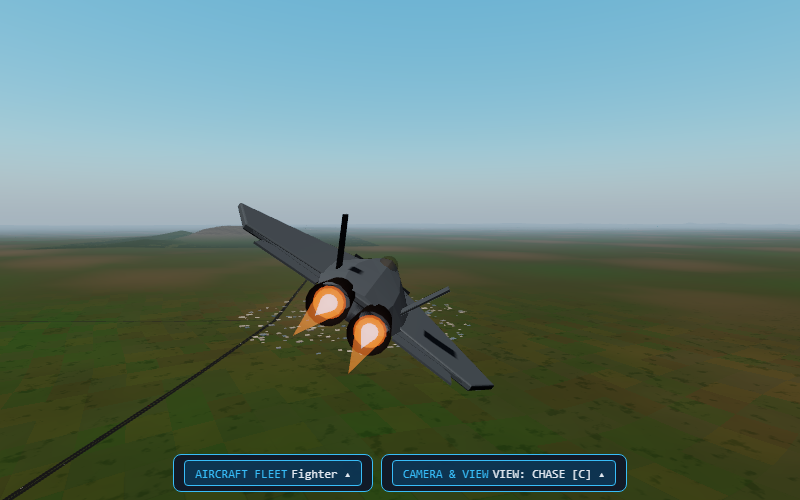
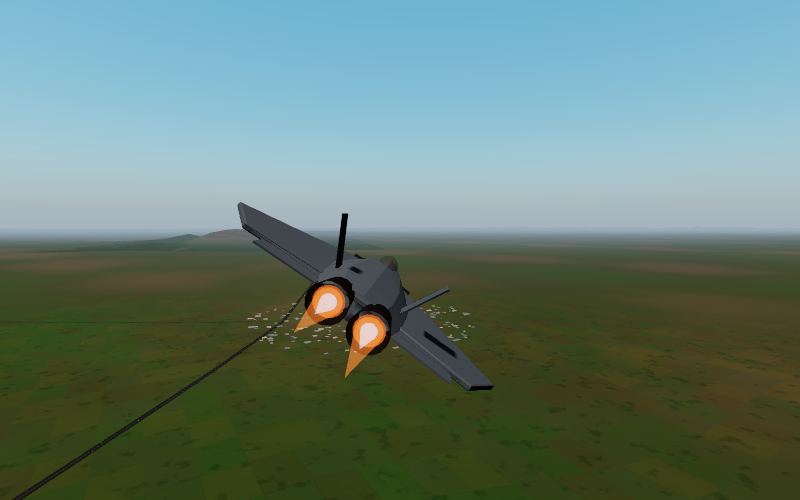
Crash always reads 0 ft; fighter's flight computer holds its speed limit
A break-up in the air left the altitude at the height where it began while the
wreck showed on the ground. Under power the fighter now stays inside its limit.

Claude-Session: https://claude.ai/code/session_01GM8VCp94C9FknBwcRwn1Gw

diff --git a/src/physics/flight.js b/src/physics/flight.js
@@ -166,7 +166,11 @@ export function stepFixedWingAir(state, input, p, type, dt) {
   if (liftDir.lengthSq() > 1e-6) liftDir.normalize(); else liftDir.copy(up);
   const drag = parasiteDrag(v, p, air, atm, stalled) + Math.abs(lift) * dragShare(cl, p);
   const side = clamp(-beta * v * v * 0.002, -2 * G, 2 * G);
-  accel.copy(nose).multiplyScalar(thrustAccel(state.power / 100, state.isAfterburner, v, air, atm))
+  // The fighter's flight computer eases the engines back as it nears its speed limit, so power alone cannot overspeed it.
+  // A steep dive still can.
+  const iasNow = v * Math.sqrt(atm.sigma) * 1.94384;
+  const speedGuard = air.fbw ? clamp((air.vne - iasNow) / 50, 0, 1) * clamp((air.mmo - v / atm.soundMs) / 0.1, 0, 1) : 1;
+  accel.copy(nose).multiplyScalar(thrustAccel(state.power / 100, state.isAfterburner, v, air, atm) * speedGuard)
     .addScaledVector(liftDir, lift)
     .addScaledVector(vHat, -drag)
     .addScaledVector(right, side);

diff --git a/web/src/physics/flight.js b/web/src/physics/flight.js
@@ -166,7 +166,11 @@ export function stepFixedWingAir(state, input, p, type, dt) {
   if (liftDir.lengthSq() > 1e-6) liftDir.normalize(); else liftDir.copy(up);
   const drag = parasiteDrag(v, p, air, atm, stalled) + Math.abs(lift) * dragShare(cl, p);
   const side = clamp(-beta * v * v * 0.002, -2 * G, 2 * G);
-  accel.copy(nose).multiplyScalar(thrustAccel(state.power / 100, state.isAfterburner, v, air, atm))
+  // The fighter's flight computer eases the engines back as it nears its speed limit, so power alone cannot overspeed it.
+  // A steep dive still can.
+  const iasNow = v * Math.sqrt(atm.sigma) * 1.94384;
+  const speedGuard = air.fbw ? clamp((air.vne - iasNow) / 50, 0, 1) * clamp((air.mmo - v / atm.soundMs) / 0.1, 0, 1) : 1;
+  accel.copy(nose).multiplyScalar(thrustAccel(state.power / 100, state.isAfterburner, v, air, atm) * speedGuard)
     .addScaledVector(liftDir, lift)
     .addScaledVector(vHat, -drag)
     .addScaledVector(right, side);

diff --git a/index.html b/index.html
@@ -1112,6 +1112,13 @@
       aircraft.mesh.traverse((o) => { if (paint === 0x8896a8 && o.isMesh && o.material && o.material.color) paint = o.material.color.getHex(); });
       crashFx.start(state.pos, velBefore, terrain.groundY(state.pos.x, state.pos.z), paint);
       aircraft.mesh.visible = false;
+      // The wreck is on the ground, so the aircraft's numbers are too, wherever the crash began (0 ft, 0 kt, level)
+      state.pos.y = terrain.groundY(state.pos.x, state.pos.z) + profile.groundHeight;
+      state.altZeroFt = 0;
+      state.rot.x = 0;
+      state.rot.z = 0;
+      state.onGround = true;
+      state.prevOnGround = true;
       state.vel.set(0, 0, 0);
       state.throttle = 0;
       state.power = 0;

diff --git a/web/index.html b/web/index.html
@@ -1112,6 +1112,13 @@
       aircraft.mesh.traverse((o) => { if (paint === 0x8896a8 && o.isMesh && o.material && o.material.color) paint = o.material.color.getHex(); });
       crashFx.start(state.pos, velBefore, terrain.groundY(state.pos.x, state.pos.z), paint);
       aircraft.mesh.visible = false;
+      // The wreck is on the ground, so the aircraft's numbers are too, wherever the crash began (0 ft, 0 kt, level)
+      state.pos.y = terrain.groundY(state.pos.x, state.pos.z) + profile.groundHeight;
+      state.altZeroFt = 0;
+      state.rot.x = 0;
+      state.rot.z = 0;
+      state.onGround = true;
+      state.prevOnGround = true;
       state.vel.set(0, 0, 0);
       state.throttle = 0;
       state.power = 0;

diff --git a/RECORD.md b/RECORD.md
@@ -18,6 +18,7 @@ Kept up to date with each round of work. Newest round first in "Done".
 - Vapor cone near Mach 1, white wing-tip trails above 4 g, sonic boom sound.
 - Smooth transitions: nose and wings settle at touchdown instead of snapping; slow steady rotation for take-off; wave drag rises smoothly; chase camera follows loops and rolls at a limited rate with no flip at the top.
 - Leftover banner behind the tabs removed.
+- Crash in the air (user's report: wreck on the ground, altitude 7,734 ft): a crash now always reads 0 ft and 0 kt. The fighter's flight computer holds it inside its speed limit under power; only a steep dive can still overspeed it.
 - Tested on the fighter: take-off roll 12 s on dry power, supersonic on afterburner and subsonic on dry, full loop, 360 roll in 2.4 s, split-S, dive into the ground, restart at 0 ft.
 
 ### Round 2, 04-Nov-2026: flight rules from the user's documents
